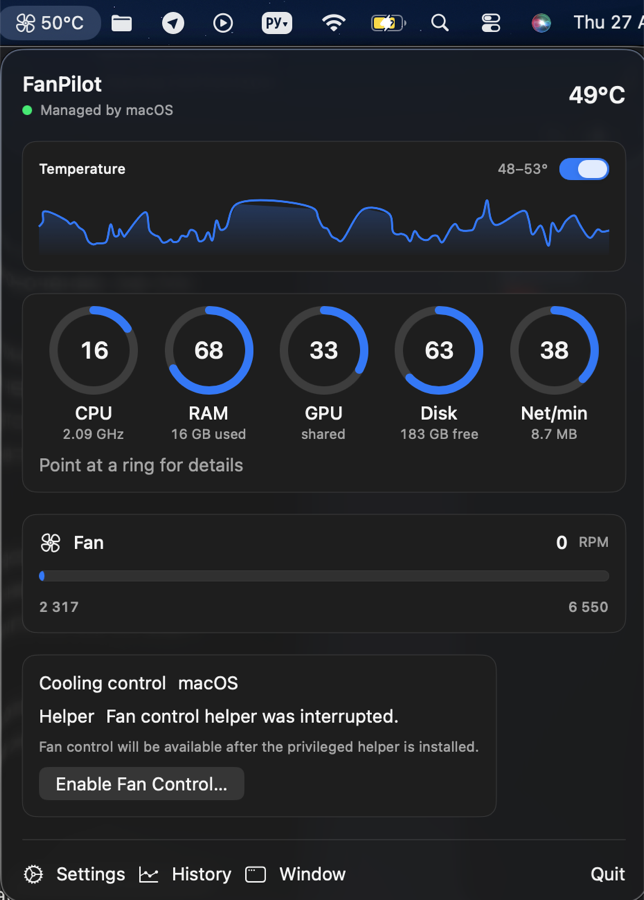
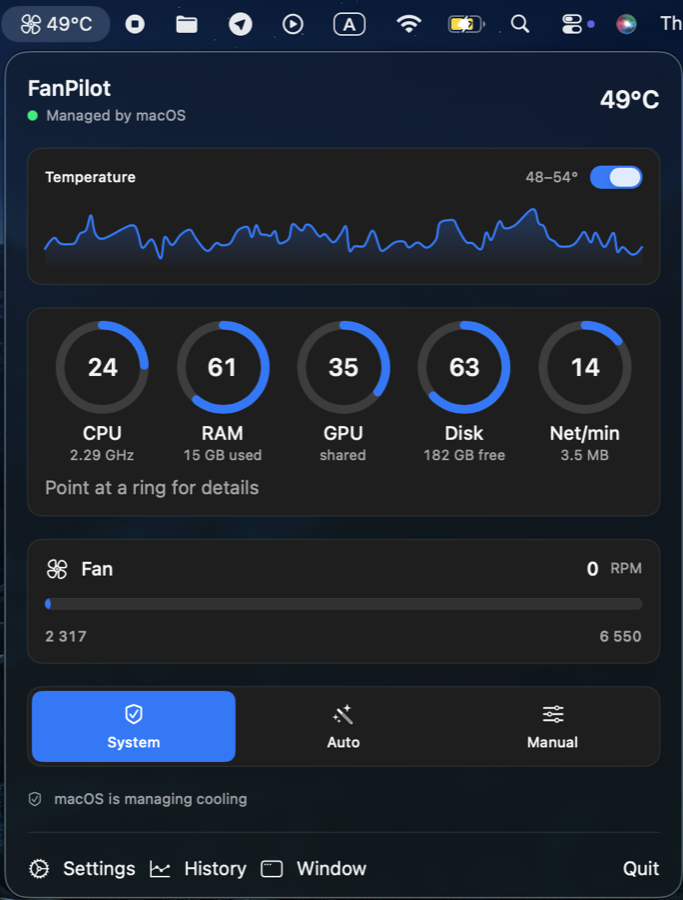
Use a popover screenshot that shows the app working
The previous one caught the helper mid-reinstall, so the first thing a
visitor saw was an error panel instead of the mode picker.

diff --git a/README.md b/README.md
@@ -8,7 +8,7 @@ Built for Apple Silicon (developed on an M4, Mac16,1) with Intel fallbacks in th
   <img src="Docs/screenshots/menu-bar.png" alt="FanPilot menu bar popover" width="420">
 </p>
 
-The popover: temperature in the menu bar, a sparkline of the last readings, and five rings for CPU, memory, GPU, disk and network. Pointing at a ring spells the reading out in full underneath.
+The popover: temperature in the menu bar, a sparkline of the last readings, five rings for CPU, memory, GPU, disk and network, and who is currently in charge of cooling. Pointing at a ring spells its reading out in full underneath.
 
 ![History and diagnostics](Docs/screenshots/history.png)
 
